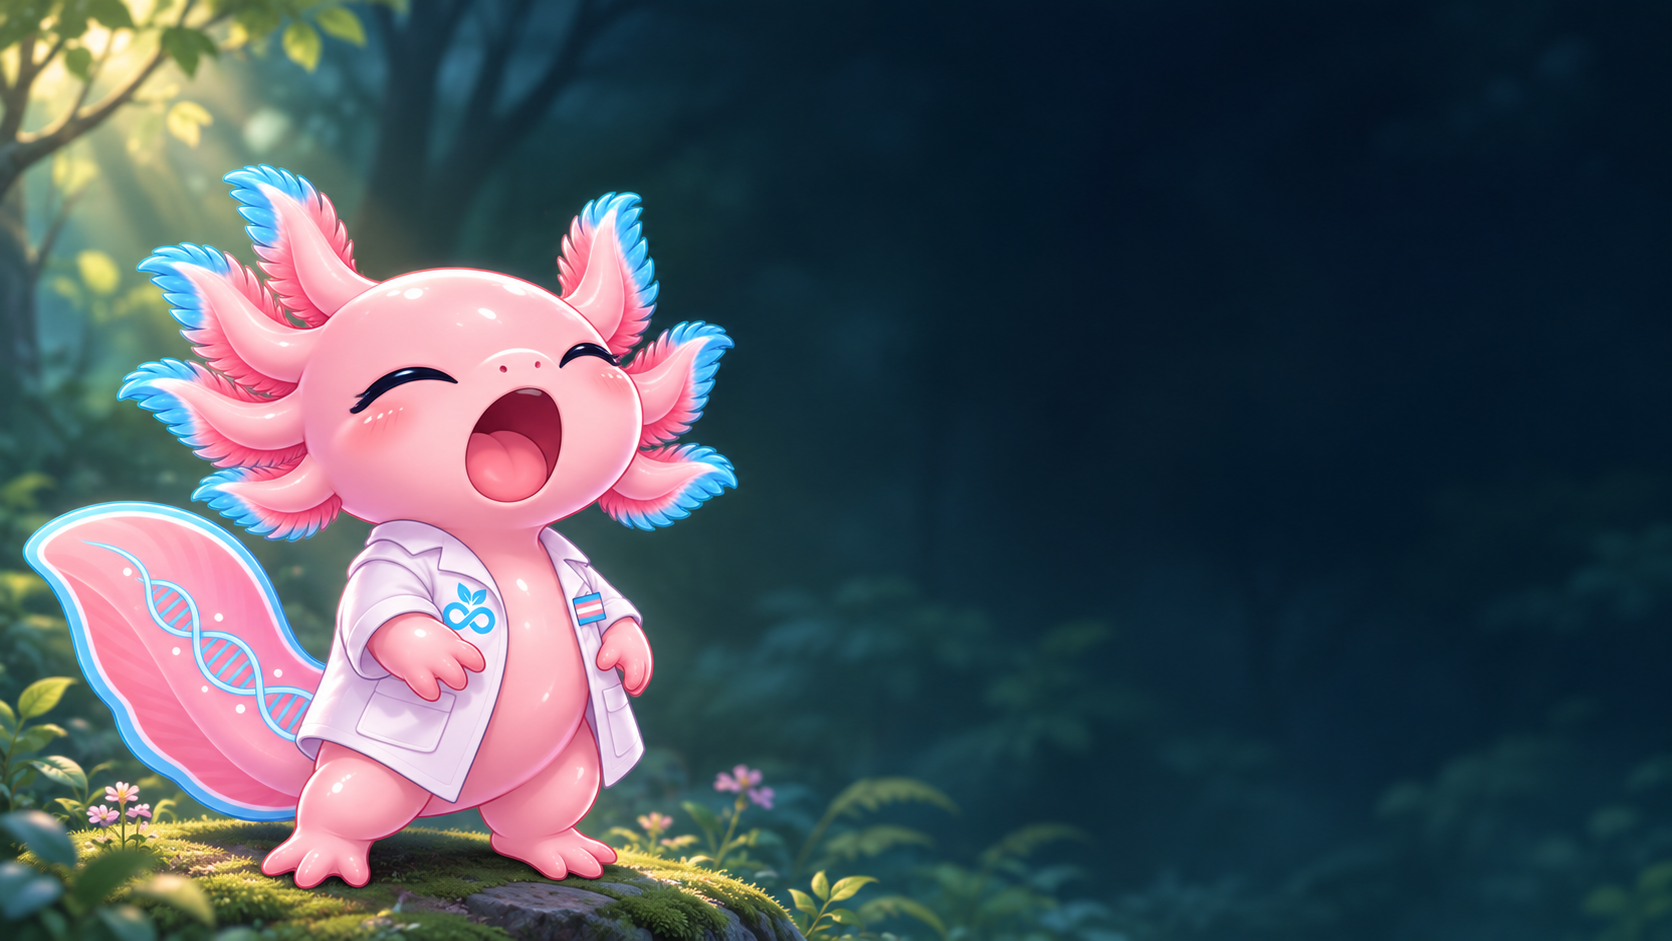
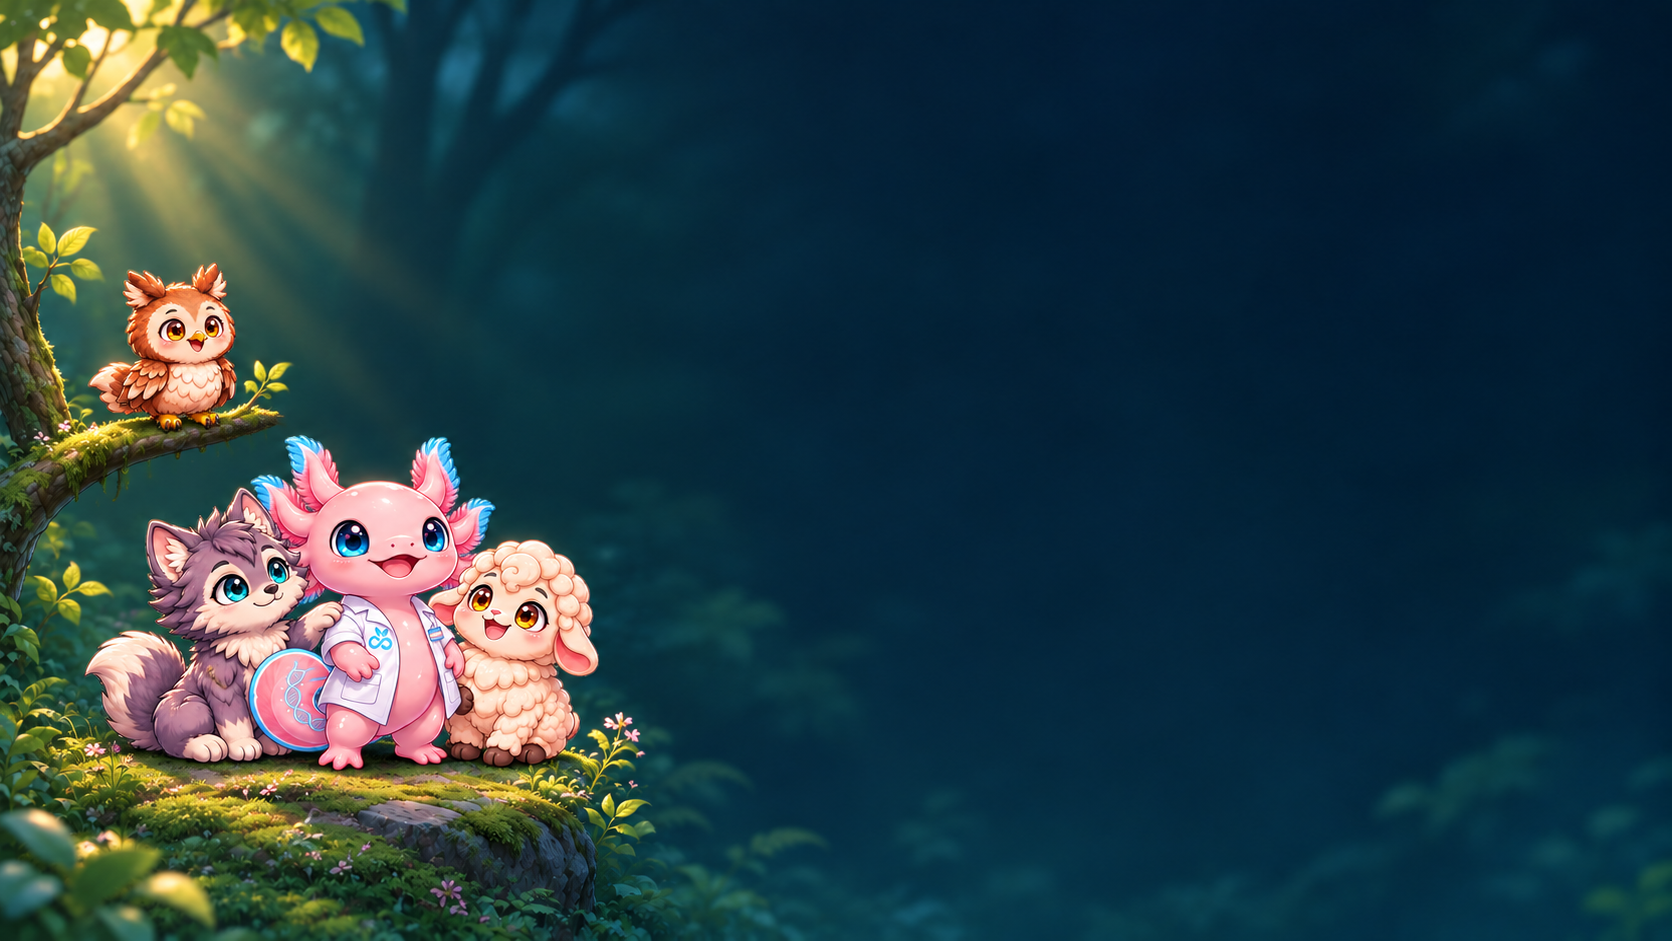
Use a cheerful Aion and friends forest wallpaper by default

diff --git a/tests/windows_upgrade.py b/tests/windows_upgrade.py
@@ -19,8 +19,8 @@ from selenium.webdriver.support.ui import WebDriverWait
 ROOT = Path(__file__).resolve().parents[1]
 WORK = ROOT / 'work/windows-upgrade'
 WORK.mkdir(parents=True, exist_ok=True)
-OLD_URL = 'https://github.com/kaansavukduran/fire-axolotl/releases/download/v0.2.0-dev.20261110-windows/fire-axolotl-0.2.0-dev.20261110.1-windows-x86_64-Setup.exe'
[1 lines of base64/hex data omitted]
+OLD_URL = 'https://github.com/kaansavukduran/fire-axolotl/releases/download/v0.3.0-dev.20261110-windows/fire-axolotl-0.3.0-dev.20261110.1-windows-x86_64-Setup.exe'
[1 lines of base64/hex data omitted]
 destination = Path(os.environ['RUNNER_TEMP']) / 'FireAxolotlUpgrade'
 assert not destination.exists(), 'The synthetic upgrade installation target must be fresh'
 binary = destination / 'fire-axolotl.exe'
@@ -93,7 +93,7 @@ try:
     driver = start()
     before = identity()
     before_tools = driver.execute_async_script('const done=arguments[0];ChromeUtils.importESModule("resource://gre/modules/AddonManager.sys.mjs").AddonManager.getAddonByID("aion@fire-axolotl.browser").then(a=>done(a.version));')
-    assert before_tools == "0.2.0"
+    assert before_tools == "0.3.0"
     driver.execute_script('CustomizableUI.removeWidgetFromArea("downloads-button");')
     assert before['version'].removesuffix('esr') == '153.7.0'
     driver.execute_script('Services.prefs.setIntPref("fireaxolotl.newtabGame.best",37); Services.prefs.setStringPref("fireaxolotl.ui.font","opendyslexic"); Services.prefs.setBoolPref("sidebar.position_start",true); Services.prefs.setBoolPref("sidebar.verticalTabs",true); Services.locale.requestedLocales=["tr"];')
@@ -130,7 +130,7 @@ try:
     driver = start()
     after = identity()
     after_tools = driver.execute_async_script('const done=arguments[0];ChromeUtils.importESModule("resource://gre/modules/AddonManager.sys.mjs").AddonManager.getAddonByID("aion@fire-axolotl.browser").then(a=>done(a.version));')
-    assert after_tools == "0.3.0"
+    assert after_tools == "0.3.1"
     assert after['version'].removesuffix('esr') == json.loads((ROOT / 'upstream.json').read_text())['version'].removesuffix('esr')
     state = driver.execute_async_script('const done=arguments[0];(async()=>{const b=await ChromeUtils.importESModule("resource://gre/modules/PlacesUtils.sys.mjs").PlacesUtils.bookmarks.fetch({url:"https://example.invalid/fire-axolotl-upgrade"});const logins=await Services.logins.getAllLogins();return {bookmark:b?.title,password:logins.some(l=>l.username==="upgrade-fixture"&&l.password==="local-fixture-not-a-user-password"),best:Services.prefs.getIntPref("fireaxolotl.newtabGame.best"),font:Services.prefs.getStringPref("fireaxolotl.ui.font"),vertical:Services.prefs.getBoolPref("sidebar.verticalTabs"),locale:Services.locale.appLocaleAsBCP47,toolbarCustomized:!CustomizableUI.getWidgetIdsInArea("nav-bar").includes("downloads-button")};})().then(done);')
     assert state == {'bookmark': 'Güncelleme · Yer imi', 'password': True, 'best': 37, 'font': 'opendyslexic', 'vertical': True, 'locale': 'tr', 'toolbarCustomized': True}
@@ -175,4 +175,4 @@ finally:
     finally:
         (WORK / 'results.json').write_text(json.dumps(report, ensure_ascii=False, indent=2) + '\n', encoding='utf-8')
 assert report['passed']
-print('Actual Setup upgrade Aion0.2 →0.3 on ESR153.7 preserved synthetic native passwords, bookmarks, language, appearance, local record, containers, vocabulary and custom PNG without changing the default browser')
+print('Actual Setup upgrade Aion0.3.0 →0.3.1 on ESR153.7 preserved synthetic native passwords, bookmarks, language, appearance, local record, containers, vocabulary and custom PNG without changing the default browser')

diff --git a/scripts/assemble_release.py b/scripts/assemble_release.py
@@ -47,12 +47,12 @@ def main():
     if len(checks['newtab_workspace']['passed']) < 9 or checks['external_game']['url'] != 'https://aionendlessrun.vercel.app/' or not checks['external_game']['tls_verification']:
         raise ValueError('New-tab UX and current official game link must pass')
     (DIST / 'release-manifest.json').write_text(json.dumps(evidence, indent=2) + '\n')
-    notes = f'''Fire Axolotl 0.3.0 geliştirici önizlemesi / developer preview
+    notes = f'''Fire Axolotl 0.3.1 geliştirici önizlemesi / developer preview
 
 **Bu kararlı günlük kullanım sürümü değildir. Otomatik güncellemeler kapalıdır.**
 **Not a stable daily-use release. Automatic updates are disabled.**
 
-Aion0.3: Esneyen Aion arka planı, oyun geri getirme, tek tıklamalı geçici sekme düğmesi ve yeni profilde üst sekmeler/ayrı arama/yer imleri. Güncel Aion Endless Run tıklamayla Vercel’de açılır; küçük çevrimdışı oyun ayrı korunur. Her yayın canlı oyun build.json/HTML doğrulamasından geçer.
+Aion0.3: Mutlu Aion ve arkadaşları arka planı, oyun geri getirme, tek tıklamalı geçici sekme düğmesi ve yeni profilde üst sekmeler/ayrı arama/yer imleri. Güncel Aion Endless Run tıklamayla Vercel’de açılır; küçük çevrimdışı oyun ayrı korunur. Her yayın canlı oyun build.json/HTML doğrulamasından geçer.
 
 Önceki0.2:760px araç paneli, üç görev bölümü ve tam sekmede çalışma alanı; oturumluk metin taslağı; sağ tık konteyner/çeviri seçenekleri. Firefox'un yerel çeviri aracını açan düğme; gerçek EN→TR çeviri ve model yüklendikten sonra çevrimdışı tekrar doğrulandı. Ayrı sohbet modeli veya önceden indirilmiş çeviri modeli paketlenmez.
 

diff --git a/branding/PROVENANCE.md b/branding/PROVENANCE.md
@@ -12,3 +12,7 @@ References reviewed: https://openai.com/policies/terms-of-use/ and https://www.m
 ## New-tab wallpaper · 2026-11-10
 
 `browser/native/aion-runner/aion-wallpaper.png` is a new OpenAI-generated yawning Aion/forest composition. Character identity follows the owner-provided Aion main reference in Drive. The red-panda screenshot was a pose/layout example; its photograph was not copied into this asset. Reference URL, source and SHA-256 are recorded in `WALLPAPER-PROVENANCE.json` alongside the packaged image. The same rights/clearance limits above apply.
+
+## Happy friends wallpaper ·0.3.1
+
+The default forest wallpaper now depicts Aion, the lavender wolf, cream lamb and orange owl together with cheerful normal expressions. OpenAI generated the new composition using the existing wallpaper, owner Aion reference and original character sheets as identity references. All four are placed on the left so browser controls remain clear. `WALLPAPER-PROVENANCE.json` records the new image hash.

diff --git a/FORGE.md b/FORGE.md
@@ -1,3 +1,7 @@
+#0.3.1 arka plan düzeltmesi · yayın öncesi
+
+Kullanıcı esneyen tek Aion yerine aynı orman ortamında Aion, kurt, kuzu ve baykuşu normal, mutlu/güler yüzlü hallerinde istedi. Yeni orijinal PNG üretildi; karakterler sol tarafta ve kontrollerin dışında kalır. Sadece varsayılan görsel/varlık makbuzu ve yama sürüm bilgileri değişir. Önceki yayınlar korunur. Windows0.3.0→0.3.1 gerçek yükseltmesi ve mevcut88 senaryo yayın kapısıdır.
+
 # Aion0.3 yayımlandı
 
 Windows `v0.3.0-dev.20261110-windows` ve Linux `v0.3.0-dev.20261110-linux`; paketleme kaydı `b6f39f35ccdb2ff7f00b0fb790c0f22ba41745b9`. Başarılı kurulum/yayın Windows42892753032, Linux42892758797. Her kurulu üründe88 senaryo ve gerçek yerel/çevrimdışı çeviri geçti. Windows0.2→0.3 gerçek Setup yükseltmesinde profil ve kişisel araç çubuğu korundu.
